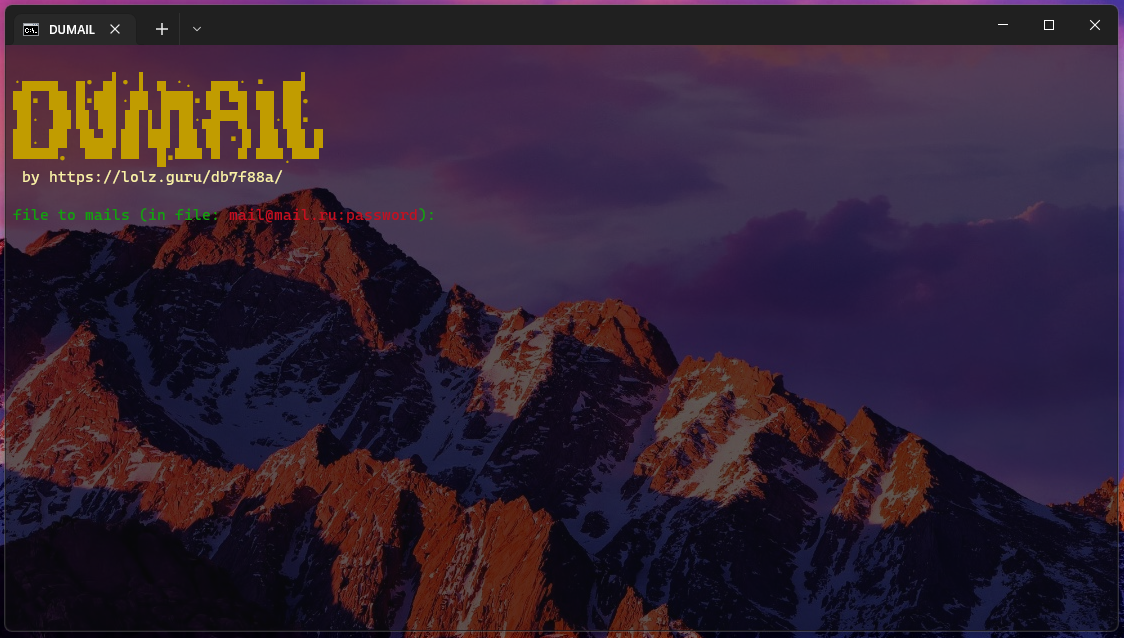
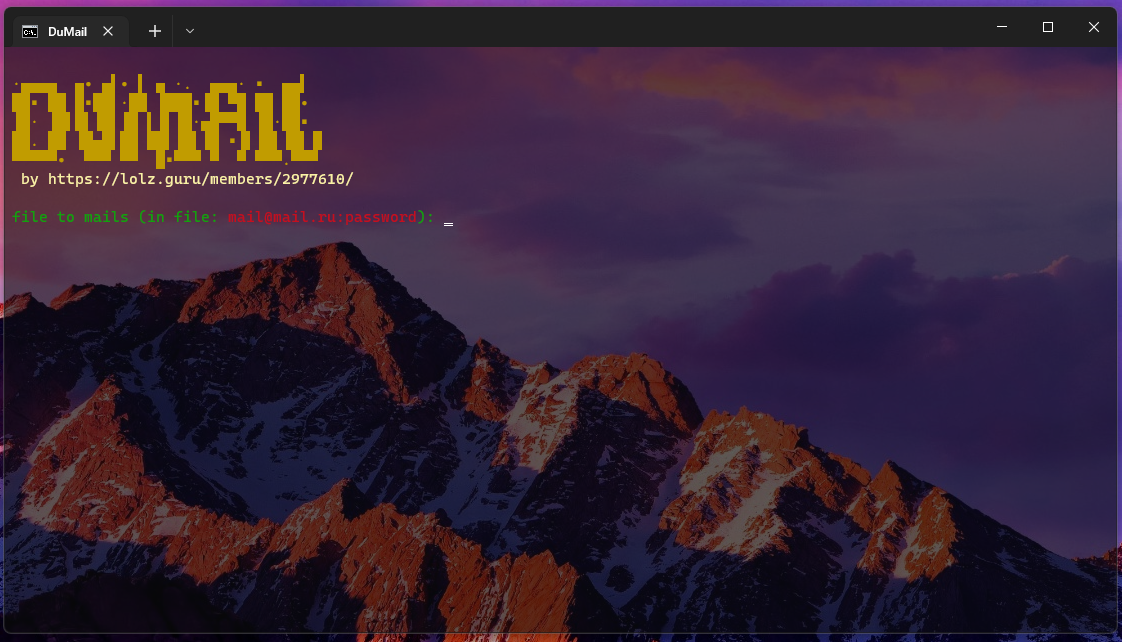
Add files via upload

diff --git a/main.py b/main.py
@@ -18,7 +18,7 @@ banner = f'''{C.YELLOW}
 ▐█· ▐█▌█▌▐█▌▐█ ▌▐▌▐█·▄█▀▀█ ▐█·██▪  
 ██. ██ ▐█▄█▌██ ██▌▐█▌▐█ ▪▐▌▐█▌▐█▌▐▌
 ▀▀▀▀▀•  ▀▀▀ ▀▀  █▪▀▀▀ ▀  ▀ ▀▀▀.▀▀▀ 
-{C.LIGHTYELLOW_EX} by https://lolz.guru/db7f88a/
+{C.LIGHTYELLOW_EX} by https://lolz.guru/members/2977610/
 '''
 print(banner)
     #не удаляй
